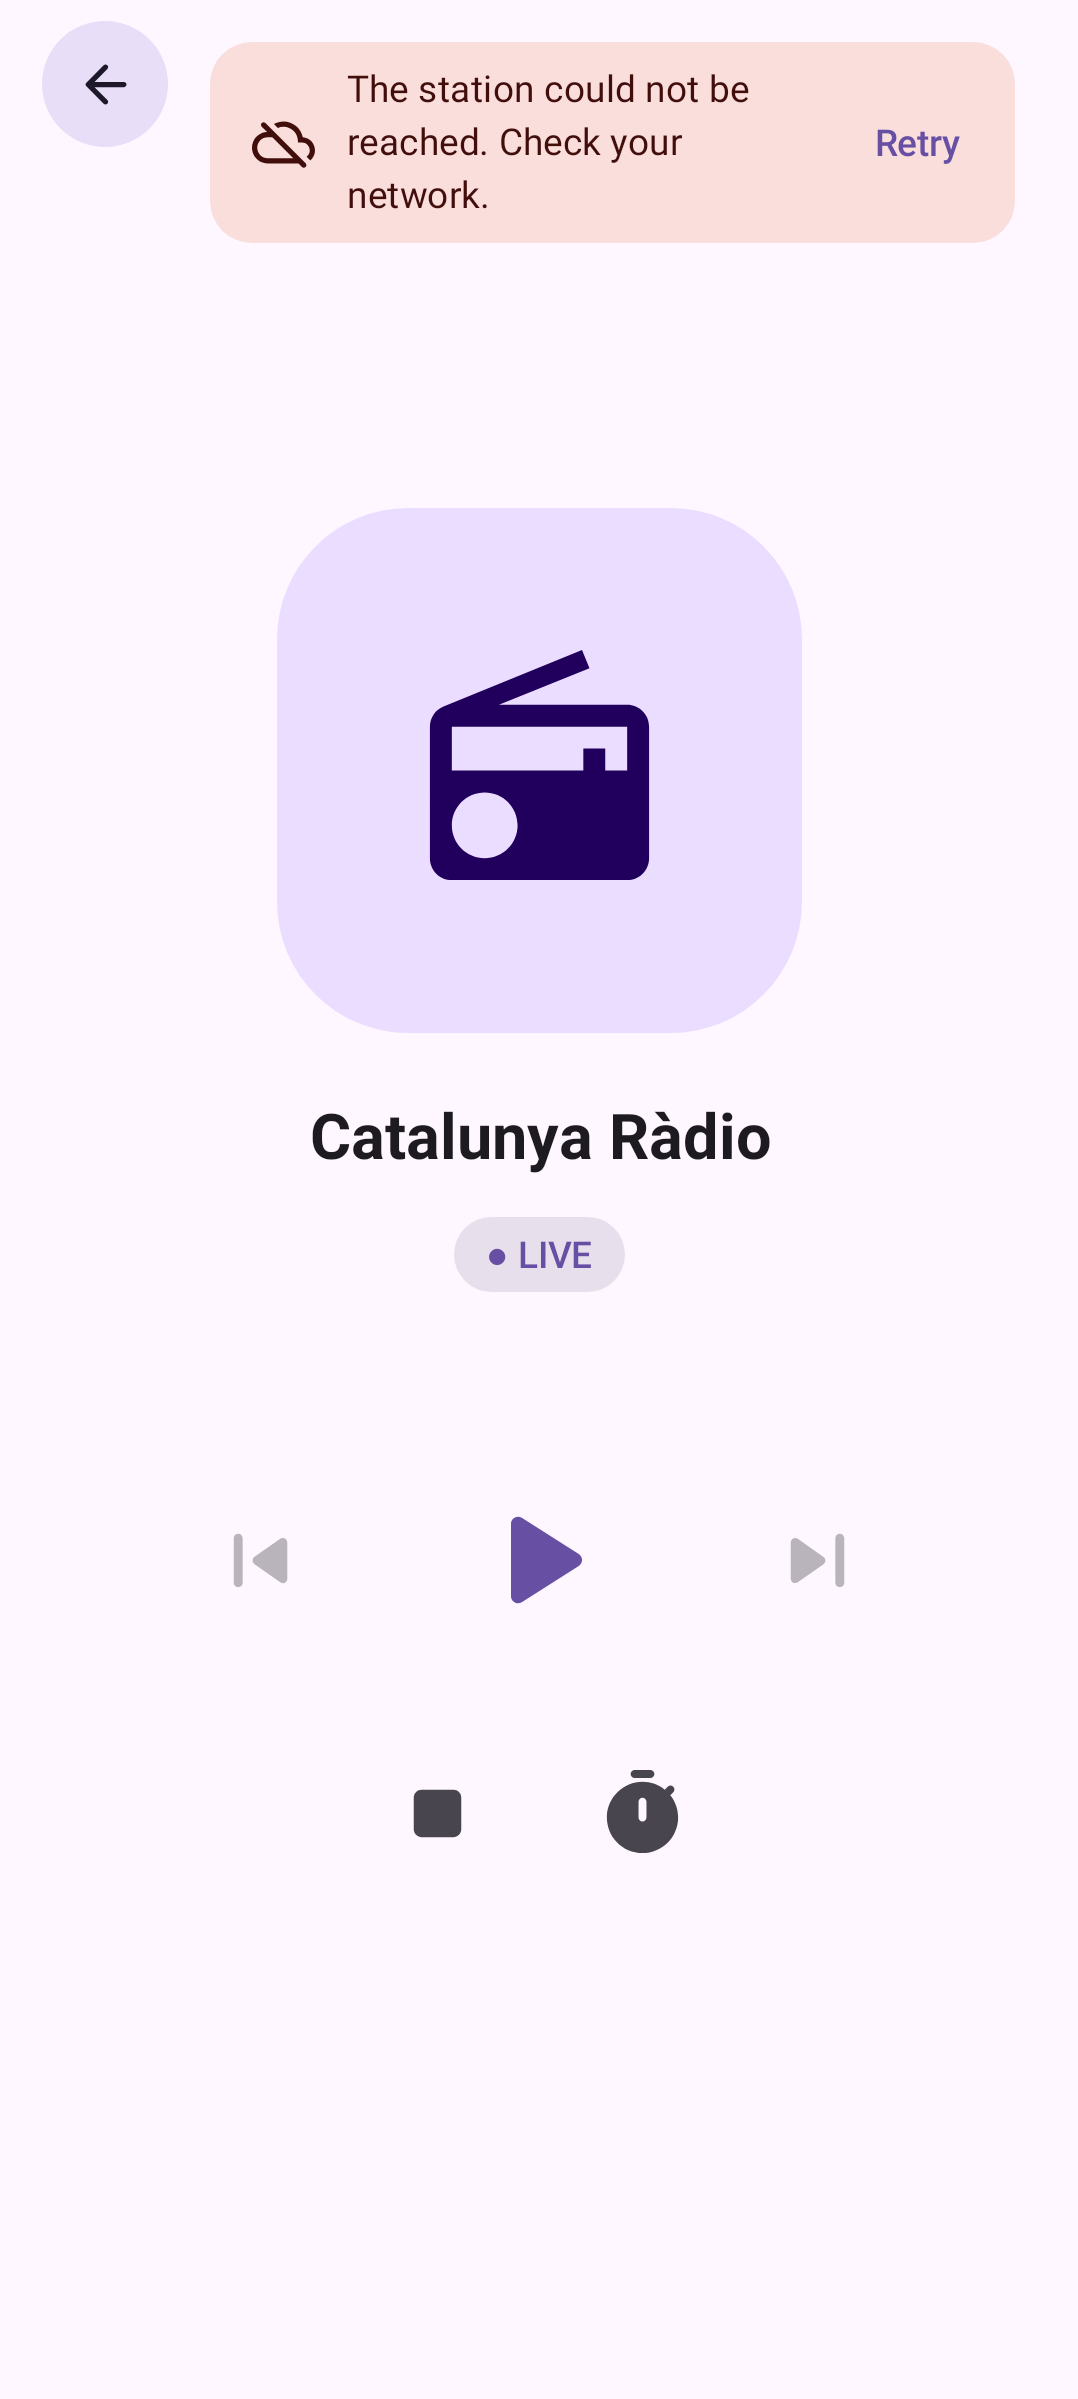
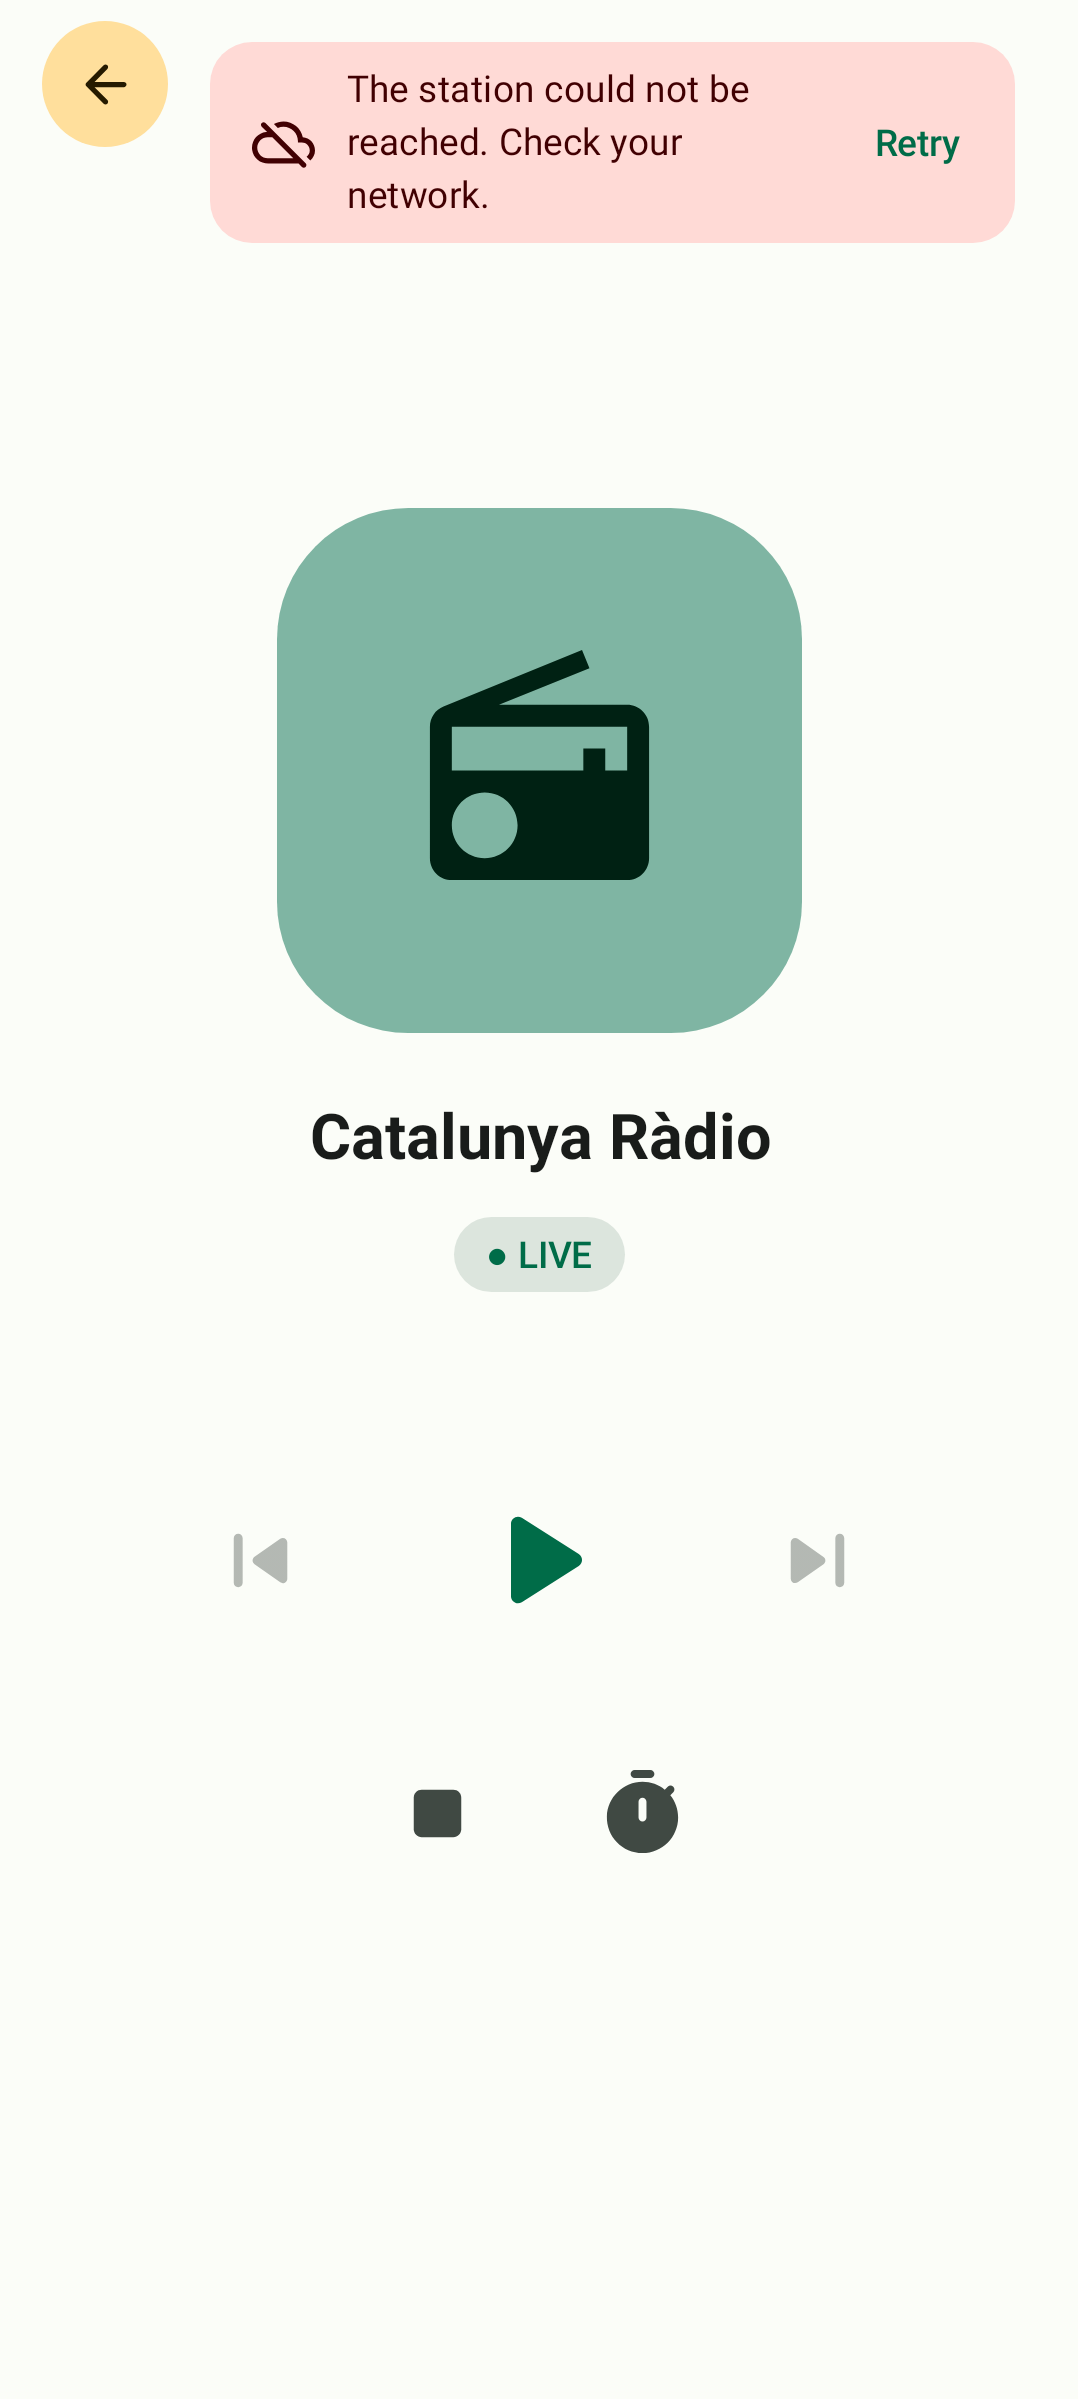
[feature/streaming_radio] test(radio): wrap screenshot tests in AppTheme and regenerate captures

diff --git a/feature/radio/src/test/kotlin/com/alxnophis/jetpack/radio/ui/composable/RadioStationListScreenshotTest.kt b/feature/radio/src/test/kotlin/com/alxnophis/jetpack/radio/ui/composable/RadioStationListScreenshotTest.kt
@@ -2,6 +2,7 @@ package com.alxnophis.jetpack.radio.ui.composable
 
 import androidx.compose.ui.test.junit4.v2.createComposeRule
 import androidx.compose.ui.test.onRoot
+import com.alxnophis.jetpack.core.ui.theme.AppTheme
 import com.alxnophis.jetpack.radio.domain.model.RadioStationMother
 import com.alxnophis.jetpack.radio.ui.contract.RadioStationListStatus
 import com.alxnophis.jetpack.radio.ui.contract.RadioStationListUiState
@@ -30,20 +31,55 @@ internal class RadioStationListScreenshotTest {
                 status = RadioStationListStatus.Content,
                 stations =
                     listOf(
-                        RadioStationMother.create(id = "1", name = "Cadena SER", faviconUrl = null, bitrate = 128),
-                        RadioStationMother.create(id = "2", name = "Catalunya Ràdio", faviconUrl = null, bitrate = 96),
+                        RadioStationMother.create(
+                            id = "1",
+                            name = "Cadena SER",
+                            faviconUrl = null,
+                            bitrate = 128,
+                        ),
+                        RadioStationMother.create(
+                            id = "2",
+                            name = "Catalunya Ràdio",
+                            faviconUrl = null,
+                            bitrate = 96,
+                        ),
                     ).toImmutableList(),
             )
-        composeRule.setContent { RadioStationListScreen(uiState, onBack = {}, onStationSelected = {}, handleEvent = {}) }
+        composeRule.setContent {
+            AppTheme {
+                RadioStationListScreen(
+                    uiState,
+                    onBack = {},
+                    onStationSelected = {},
+                    handleEvent = {},
+                )
+            }
+        }
 
-        composeRule.onRoot().captureScreenshot(screenName = "RadioStationListScreen", stateIndex = 0)
+        composeRule
+            .onRoot()
+            .captureScreenshot(
+                screenName = "RadioStationListScreen",
+                stateIndex = 0,
+            )
     }
 
     @Test
     fun stationListError() {
         val uiState = RadioStationListUiState(status = RadioStationListStatus.Error, stations = persistentListOf())
-        composeRule.setContent { RadioStationListScreen(uiState, onBack = {}, onStationSelected = {}, handleEvent = {}) }
+        composeRule.setContent {
+            AppTheme {
+                RadioStationListScreen(
+                    uiState,
+                    onBack = {},
+                    onStationSelected = {},
+                    handleEvent = {},
+                )
+            }
+        }
 
-        composeRule.onRoot().captureScreenshot(screenName = "RadioStationListScreen", stateIndex = 1)
+        composeRule
+            .onRoot()
+            .captureScreenshot(screenName = "RadioStationListScreen", stateIndex = 1)
     }
 }

diff --git a/feature/radio/src/test/kotlin/com/alxnophis/jetpack/radio/ui/composable/RadioPlayerScreenshotTest.kt b/feature/radio/src/test/kotlin/com/alxnophis/jetpack/radio/ui/composable/RadioPlayerScreenshotTest.kt
@@ -2,6 +2,7 @@ package com.alxnophis.jetpack.radio.ui.composable
 
 import androidx.compose.ui.test.junit4.v2.createComposeRule
 import androidx.compose.ui.test.onRoot
+import com.alxnophis.jetpack.core.ui.theme.AppTheme
 import com.alxnophis.jetpack.radio.playback.RadioPlaybackStatus
 import com.alxnophis.jetpack.radio.ui.contract.RadioPlayerUiState
 import com.alxnophis.jetpack.testing.screenshot.ScreenshotTestUtils.captureScreenshot
@@ -22,18 +23,44 @@ internal class RadioPlayerScreenshotTest {
 
     @Test
     fun radioPlayerPlaying() {
-        val uiState = uiState(status = RadioPlaybackStatus.Playing, canPrevious = true, canNext = true)
-        composeRule.setContent { RadioPlayerScreen(uiState, onBack = {}, handleEvent = {}) }
+        val uiState =
+            uiState(
+                status = RadioPlaybackStatus.Playing,
+                canPrevious = true,
+                canNext = true,
+            )
+        composeRule.setContent {
+            AppTheme {
+                RadioPlayerScreen(
+                    uiState,
+                    onBack = {},
+                    handleEvent = {},
+                )
+            }
+        }
 
-        composeRule.onRoot().captureScreenshot(screenName = "RadioPlayerScreen", stateIndex = 0)
+        composeRule
+            .onRoot()
+            .captureScreenshot(screenName = "RadioPlayerScreen", stateIndex = 0)
     }
 
     @Test
     fun radioPlayerError() {
-        val uiState = uiState(status = RadioPlaybackStatus.Error, canPrevious = false, canNext = false)
-        composeRule.setContent { RadioPlayerScreen(uiState, onBack = {}, handleEvent = {}) }
+        val uiState =
+            uiState(
+                status = RadioPlaybackStatus.Error,
+                canPrevious = false,
+                canNext = false,
+            )
+        composeRule.setContent {
+            AppTheme {
+                RadioPlayerScreen(uiState, onBack = {}, handleEvent = {})
+            }
+        }
 
-        composeRule.onRoot().captureScreenshot(screenName = "RadioPlayerScreen", stateIndex = 1)
+        composeRule
+            .onRoot()
+            .captureScreenshot(screenName = "RadioPlayerScreen", stateIndex = 1)
     }
 
     private fun uiState(

diff --git a/feature/radio/src/test/kotlin/com/alxnophis/jetpack/radio/ui/composable/RadioPlayerLandscapeScreenshotTest.kt b/feature/radio/src/test/kotlin/com/alxnophis/jetpack/radio/ui/composable/RadioPlayerLandscapeScreenshotTest.kt
@@ -2,6 +2,7 @@ package com.alxnophis.jetpack.radio.ui.composable
 
 import androidx.compose.ui.test.junit4.v2.createComposeRule
 import androidx.compose.ui.test.onRoot
+import com.alxnophis.jetpack.core.ui.theme.AppTheme
 import com.alxnophis.jetpack.radio.playback.RadioPlaybackStatus
 import com.alxnophis.jetpack.radio.ui.contract.RadioPlayerUiState
 import com.alxnophis.jetpack.testing.screenshot.ScreenshotTestUtils.captureScreenshot
@@ -30,7 +31,11 @@ internal class RadioPlayerLandscapeScreenshotTest {
                 canNext = true,
                 sleepTimerRemainingMillis = null,
             )
-        composeRule.setContent { RadioPlayerScreen(uiState, onBack = {}, handleEvent = {}) }
+        composeRule.setContent {
+            AppTheme {
+                RadioPlayerScreen(uiState, onBack = {}, handleEvent = {})
+            }
+        }
 
         composeRule
             .onRoot()
